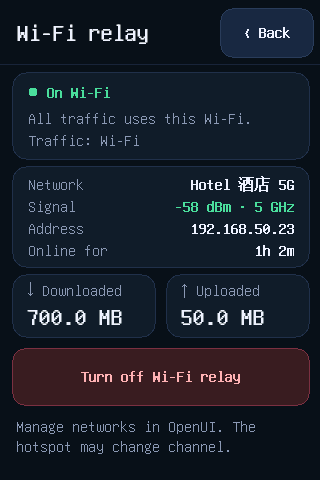
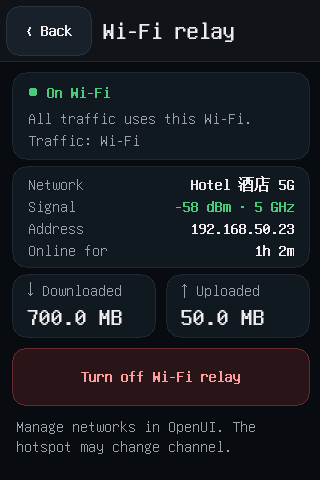
Docs: current screen and dashboard images, power menu
- docs/images rendered again from the current screen and dashboard, with
  a new image of the screen's power menu.
- READMEs: holding the power key opens the power menu; Back is at the
  top left. Progress log entry.

diff --git a/docs/PLAN.md b/docs/PLAN.md
@@ -573,3 +573,42 @@ remote 名：`upstream-wireguard`、`upstream-openui`、`upstream-original`。
 ### 2026-10-17 — 1.1.3
 - 用户：「提交推送，发布 v1.1.3」。内容：九宫格工具箱与网页状态条（用户的界面，含合并时的修复）、资源占用优化、登录页「高级后台」、渲染图更新。
 - 版本号改为 1.1.3（agent、网页、安装器和各自的锁文件）。发布说明 `docs/releases/v1.1.3.md` 用三种语言。补丁版本沿用 v1.1 的线框图。
+
+### 2026-10-17 — 界面重做（网页和小屏）、小屏长按电源菜单
+- 用户：「重构ui，后台和小屏幕，而且小屏幕长按没有关机重启按钮，也要修」。用户的选择：网页保留七个分组、只改外壳并重做首页；
+  小屏重新设计、保留像素字体；长按弹出菜单，关机和重启再确认一次。
+- 小屏长按电源键：原厂的关机/重启菜单是原厂界面画的，DevUI 打开时原厂界面已停，所以长按没有反应。
+  - `screen/power.h`：按住 1.5 秒（`POWER_HOLD_MS`）报一次长按，松开时不再算短按；按下和松开一起读到（画面慢）时，松开时报长按。
+    按键设备用 `EVIOCSCLOCKID` 改成单调时钟，按住期间用 `monotonic_ms()` 计时。自测补了按住、排队、丢事件三种情况。
+  - 面板：长按在任何页面和对话框上打开电源菜单（熄屏时先亮屏），关机、重启、返回原厂界面、取消；关机和重启再确认一次，
+    然后向 agent 发 `power off` / `power reboot`，显示「正在关机…/正在重启…」。agent 不回应或 30 秒后设备还在，菜单带原因回来。
+  - agent（`screen.rs` 的 `power()`、`screen_ipc.rs` 的 `Request::Power`）：不是任务，立即回答（有任务在跑、状态过期也可以），
+    一分钟内的第二次请求回 `ERR Busy`。先恢复原厂界面（等监督进程退出，最多 10 秒），让固件画自己的关机/重启画面、
+    不会遇到显示被占，再调用 `zwrt_mc.device.manager device_poweroff`（网页关机用的同一个）或 `system reboot`。
+    `device_ext::poweroff()` 从网页的关机接口里拆出来共用。
+- 小屏重新设计（`style.css`、`render.h`、`pages.h`）：
+  - 配色改用网页深色主题的同一套颜色；标题栏统一为顶部一条底色、左上角「‹ 返回」、后面是标题。
+  - 主菜单：状态卡（电量、信号或运行时间、当前代理、网速）；九宫格每格是符号、短名和一两个字的状态（关闭、5 台在线、-88 dBm、TTL 64、上限 80%），
+    不再截成「...」；四项以内仍是带说明的列表行（用全名）。页脚说明长按电源键。
+  - 工具箱页：成对的「开启/关闭」按钮改成开关行（Wi-Fi 两个频段、充电）；所有选择组统一为当前项绿色、其余平铺
+    （原来 TTL 的 64/65/128、充电上限 80% 等未选中项是蓝色）。文字改成短句，英文不再截断。
+  - 新组件 `switch_row`（id 固定，`href` 是当前要做的动作）、`section`；`menu_title/menu_icon/menu_detail/tile_state` 集中菜单文字。
+- 网页（方案 B：七组不变，换外壳）：
+  - 顶部常驻栏（每页、桌面和手机）：信号、网速、电量、CPU/内存、温度，取自首页轮询，不加请求；右侧电源菜单（重启、关机，都先确认，
+    与「系统 → 设置」共用 `app/power.ts`）。手机上顶栏另有语言和主题切换，状态在第二行横向滚动。
+  - 手机底栏改为首页、信号、网络、代理和「更多」（弹出蜂窝、DevUI、系统）。切换分组时滚回顶部。
+  - 首页重做：四张指标卡；「快捷操作」显示当前生效的值（网络制式、TTL、充电上限、当前代理，打开页面和每次操作后读一次
+    `/api/ttl/status`、`/api/device/charge-control`、`/api/proxy`），点当前值不再重复下发。原来 TTL 和充电上限按钮看不出当前状态。
+  - 统一视觉：新的颜色变量（深色与小屏一致）、卡片 16px 圆角和浅阴影、标签和分段控件改成同一种分段样式（选中项用新变量 `raised`，
+    深色下比底色亮）、各分组标题改用 `PageHeader`。
+  - 修了一个原有问题：Tailwind 3 不生成 `/8`、`/12`、`/6` 这几档透明度，`border-line/8`（37 处）、`bg-danger/8` 等一直没生效，
+    边框用的是默认浅灰，深色模式下很亮。`tailwind.config.js` 补上这三档。
+  - 网页上的「Pocket OS」字样改为中性的「九宫格」「DevUI」；DevUI 页菜单项「5G 信号」改为「信号」，与小屏一致；说明里加上长按电源键。
+  - i18n 检查把 `aria-haspopup` 和 `paddingBottom` 当作代码。
+- 端到端：S17 加电源指令（`power off` 立即 OK、随后固件收到 `device_poweroff`；进行中再发 `power reboot` 回 `ERR Busy`；其他写法拒绝），
+  模拟固件 `fw/bin/ubus` 认识 `system reboot` 和 `device_poweroff`。S11 改为检查顶栏和电源菜单、首页快捷操作（TTL 64 生效并显示为当前项）、
+  手机上经「更多」进入 DevUI，以及新的菜单名称。
+- 验证（最终代码）：Rust 199 个测试、fmt、clippy、aarch64 检查；屏幕预览自测（含电源菜单）和 aarch64 屏幕程序编译；
+  网页 build、lint、test 16/16；Python 33；契约、机密、版本检查。端到端完整运行（2026-10-17 06:30 结束）：
+  S1–S17、X1–X4 全部通过，S11 111/111，S13 29/29，S14 24/24。
+- 真机待验：长按 1.5 秒是否稳定触发、固件自己对长按有无反应、恢复原厂界面后 `device_poweroff` 能否关机、新界面观感。

diff --git a/README.zh-TW.md b/README.zh-TW.md
@@ -64,11 +64,11 @@
    另外兩種方式要在網頁上開啟並儲存：
    - **开机自动打开 DevUI**（Open DevUI at startup）：開機後等原廠介面啟動完成再開啟，關機充電時不會開啟；
    - **连按四次打开 DevUI**（Press four times to open DevUI）：2.5 秒內短按四次電源鍵，每兩次之間不超過 0.7 秒。
-3. 短按電源鍵讓螢幕休眠或喚醒。閒置到設定的時間（預設 2 分鐘）後螢幕熄滅，DevUI 保留；也可以改成返回原廠介面。
+3. 短按電源鍵讓螢幕休眠或喚醒；長按約 1.5 秒彈出電源選單，可關機、重新啟動或返回原廠介面（關機和重新啟動會再確認一次）。閒置到設定的時間（預設 2 分鐘）後螢幕熄滅，DevUI 保留；也可以改成返回原廠介面。
 4. 亮度、閒置時間（30–600 秒）、閒置後的操作、啟動頁和選單功能都在同一個網頁上設定。儲存後顯示和選單立即生效，啟動頁在下次開啟 DevUI 時生效。
 
 雙指按住預設開啟，開機開啟和連按捷徑預設關閉。原廠鎖定畫面擋不住雙指按住和連按：鎖定時這樣操作，同樣會開啟 DevUI。
-原廠的長按功能照常可用，螢幕上始終有 **原厂界面**（Stock UI）和 **返回**（Back）。退出 DevUI 不影響網路。請見 [DevUI 說明](docs/SCREEN.md)。
+螢幕上始終有 **原厂界面**（Stock UI）和 **返回**（Back，左上角）。退出 DevUI 不影響網路。請見 [DevUI 說明](docs/SCREEN.md)。
 
 ## 安裝和更新
 

diff --git a/README.md b/README.md
@@ -62,11 +62,11 @@
    另外两种方式要在网页上打开并保存：
    - **开机自动打开 DevUI**：开机后等原厂界面启动完成再打开，关机充电时不会打开；
    - **连按四次打开 DevUI**：2.5 秒内短按四次电源键，每两次之间不超过 0.7 秒。
-3. 短按电源键让屏幕休眠或唤醒。闲置到设定的时间（默认 2 分钟）后屏幕熄灭，DevUI 保留；也可以改成返回原厂界面。
+3. 短按电源键让屏幕休眠或唤醒；长按约 1.5 秒弹出电源菜单，可关机、重启或返回原厂界面（关机和重启会再确认一次）。闲置到设定的时间（默认 2 分钟）后屏幕熄灭，DevUI 保留；也可以改成返回原厂界面。
 4. 亮度、闲置时间（30–600 秒）、闲置后的操作、启动页和菜单功能都在同一个网页上设置。保存后显示和菜单立即生效，启动页在下次打开 DevUI 时生效。
 
 双指按住默认开启，开机打开和连按快捷方式默认关闭。原厂锁屏挡不住双指按住和连按：锁屏时这样操作，同样会打开 DevUI。
-原厂的长按功能照常可用，屏幕上始终有 **原厂界面** 和 **返回**。退出 DevUI 不影响网络。见 [DevUI 说明](docs/SCREEN.md)。
+屏幕上始终有 **原厂界面** 和 **返回**（左上角）。退出 DevUI 不影响网络。见 [DevUI 说明](docs/SCREEN.md)。
 
 ## 安装和更新
 

diff --git a/README.en.md b/README.en.md
@@ -74,7 +74,9 @@ establish compatibility with other models, hardware revisions or firmware.
      while the device charges switched off;
    - **Press four times to open DevUI**: four short power-button presses within
      2.5 seconds, with gaps no longer than 0.7 seconds.
-3. Short-press the power button to sleep or wake the display. After the idle time
+3. Short-press the power button to sleep or wake the display; hold it for about 1.5
+   seconds for the power menu: shut down, restart or return to the stock UI (shutting
+   down and restarting ask once more). After the idle time
    (two minutes by default) the screen turns off and DevUI stays; you can choose to
    return to the stock UI instead.
 4. Set brightness, idle time (30–600 seconds), what happens when idle, the startup
@@ -83,8 +85,7 @@ establish compatibility with other models, hardware revisions or firmware.
 
 The two-finger hold is on by default; opening at startup and the four-press shortcut
 are off. The stock lock screen does not stop the two-finger hold or the four presses.
-Factory long-press handling remains available, and Stock UI and Back are always
-accessible. Leaving DevUI does not affect the network. See [DevUI details](docs/SCREEN.md).
+Stock UI and Back (top left) are always accessible. Leaving DevUI does not affect the network. See [DevUI details](docs/SCREEN.md).
 
 ## Install and update
 
